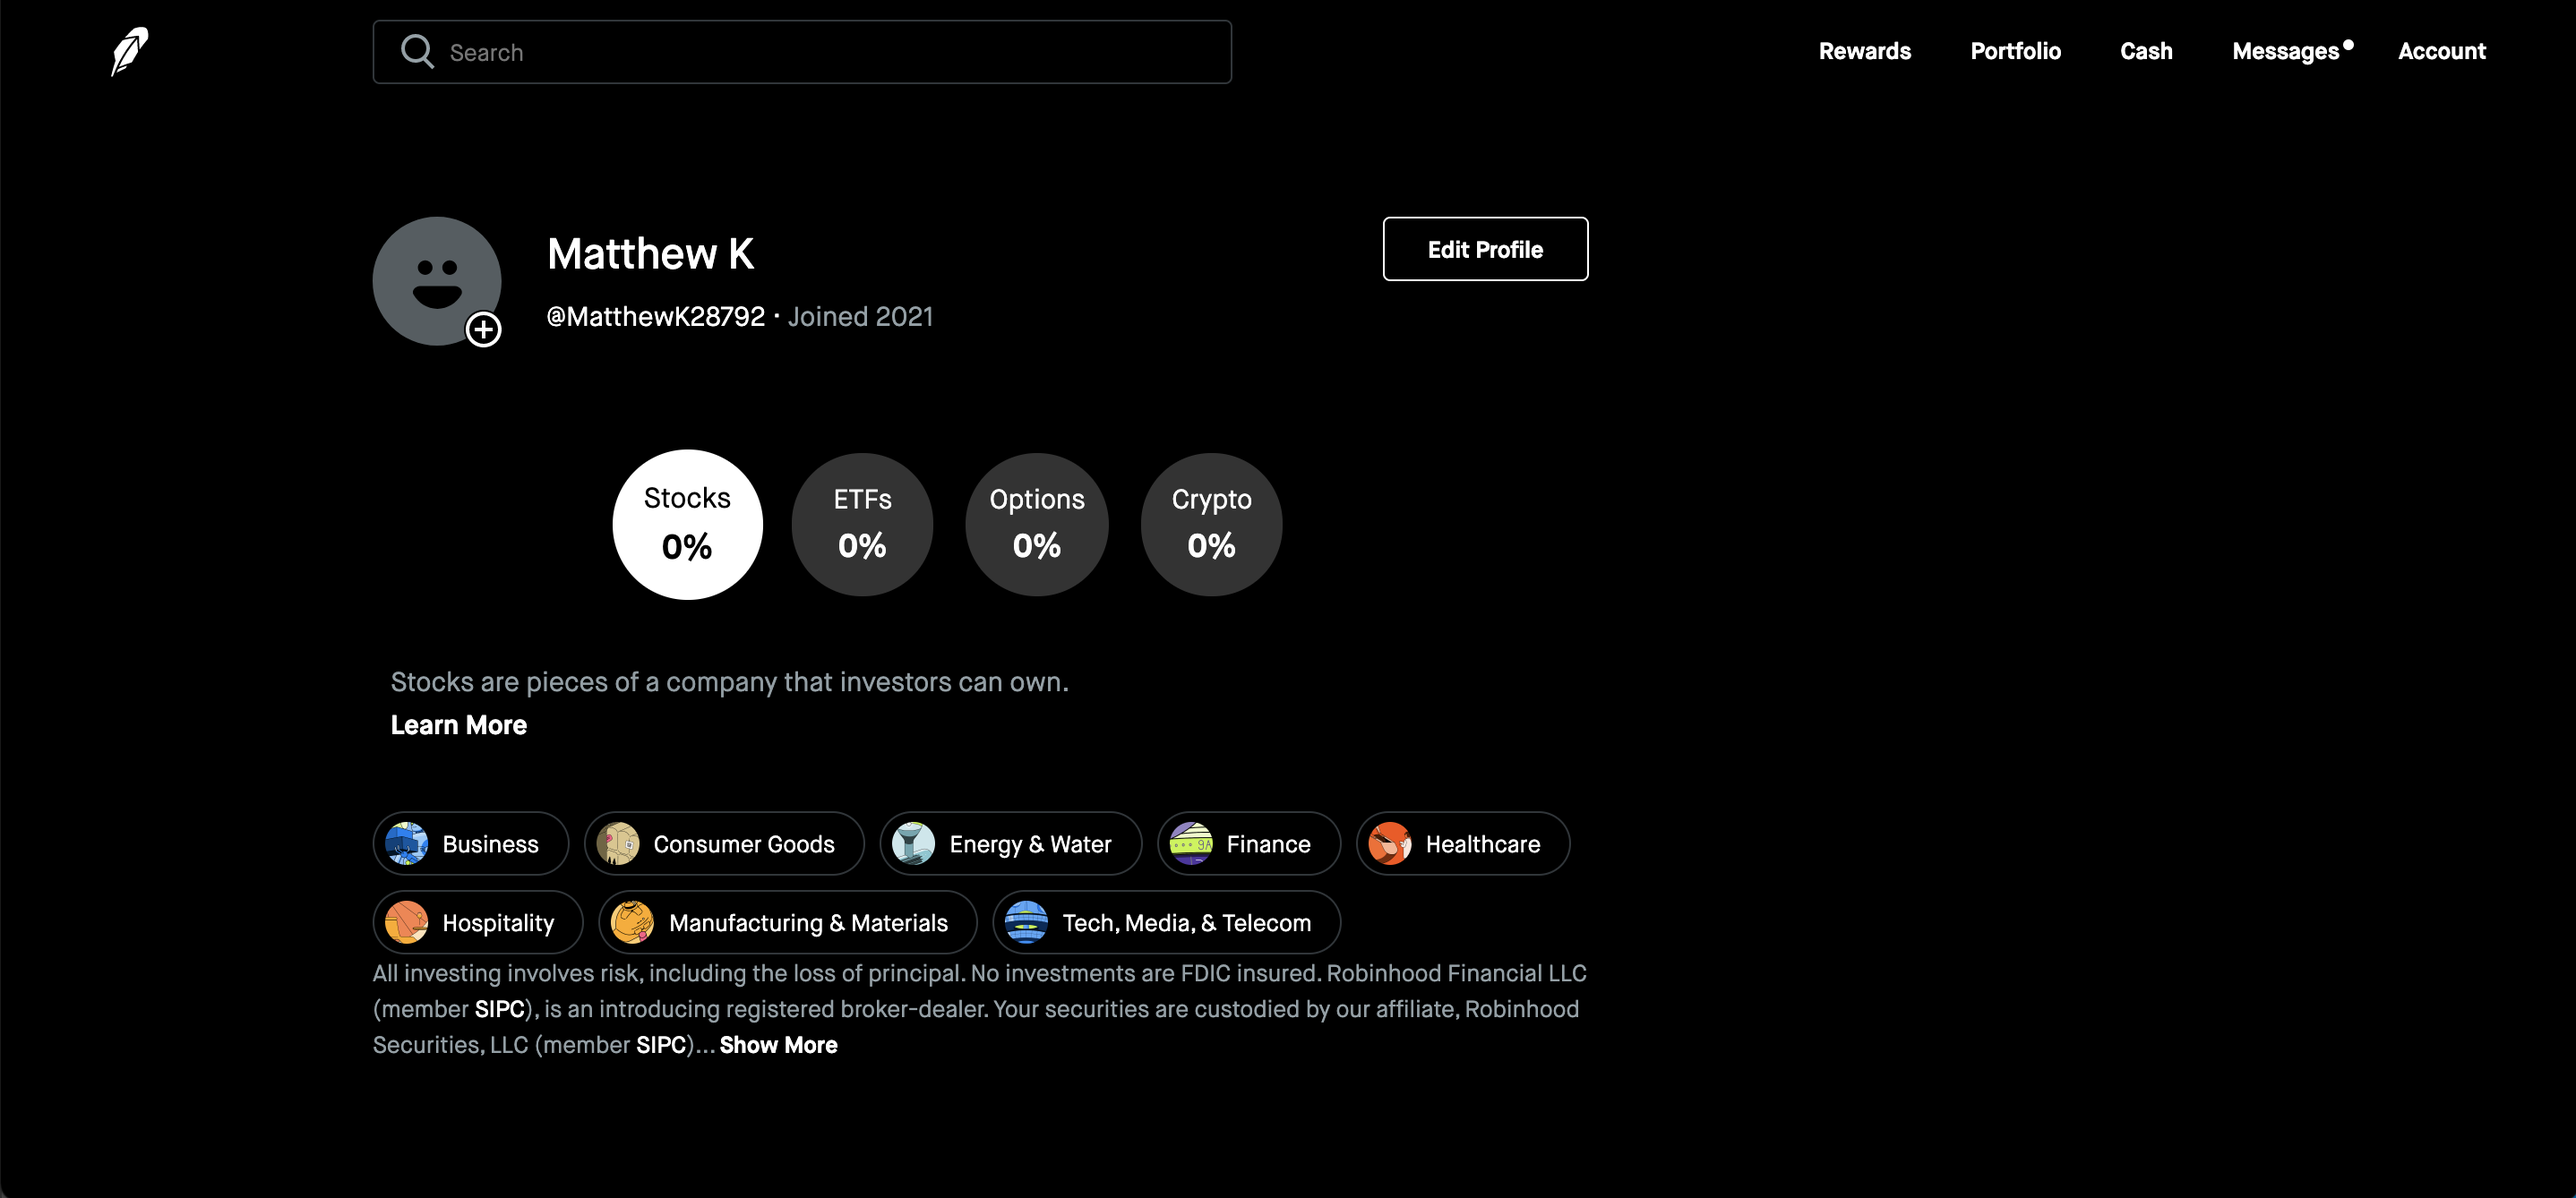
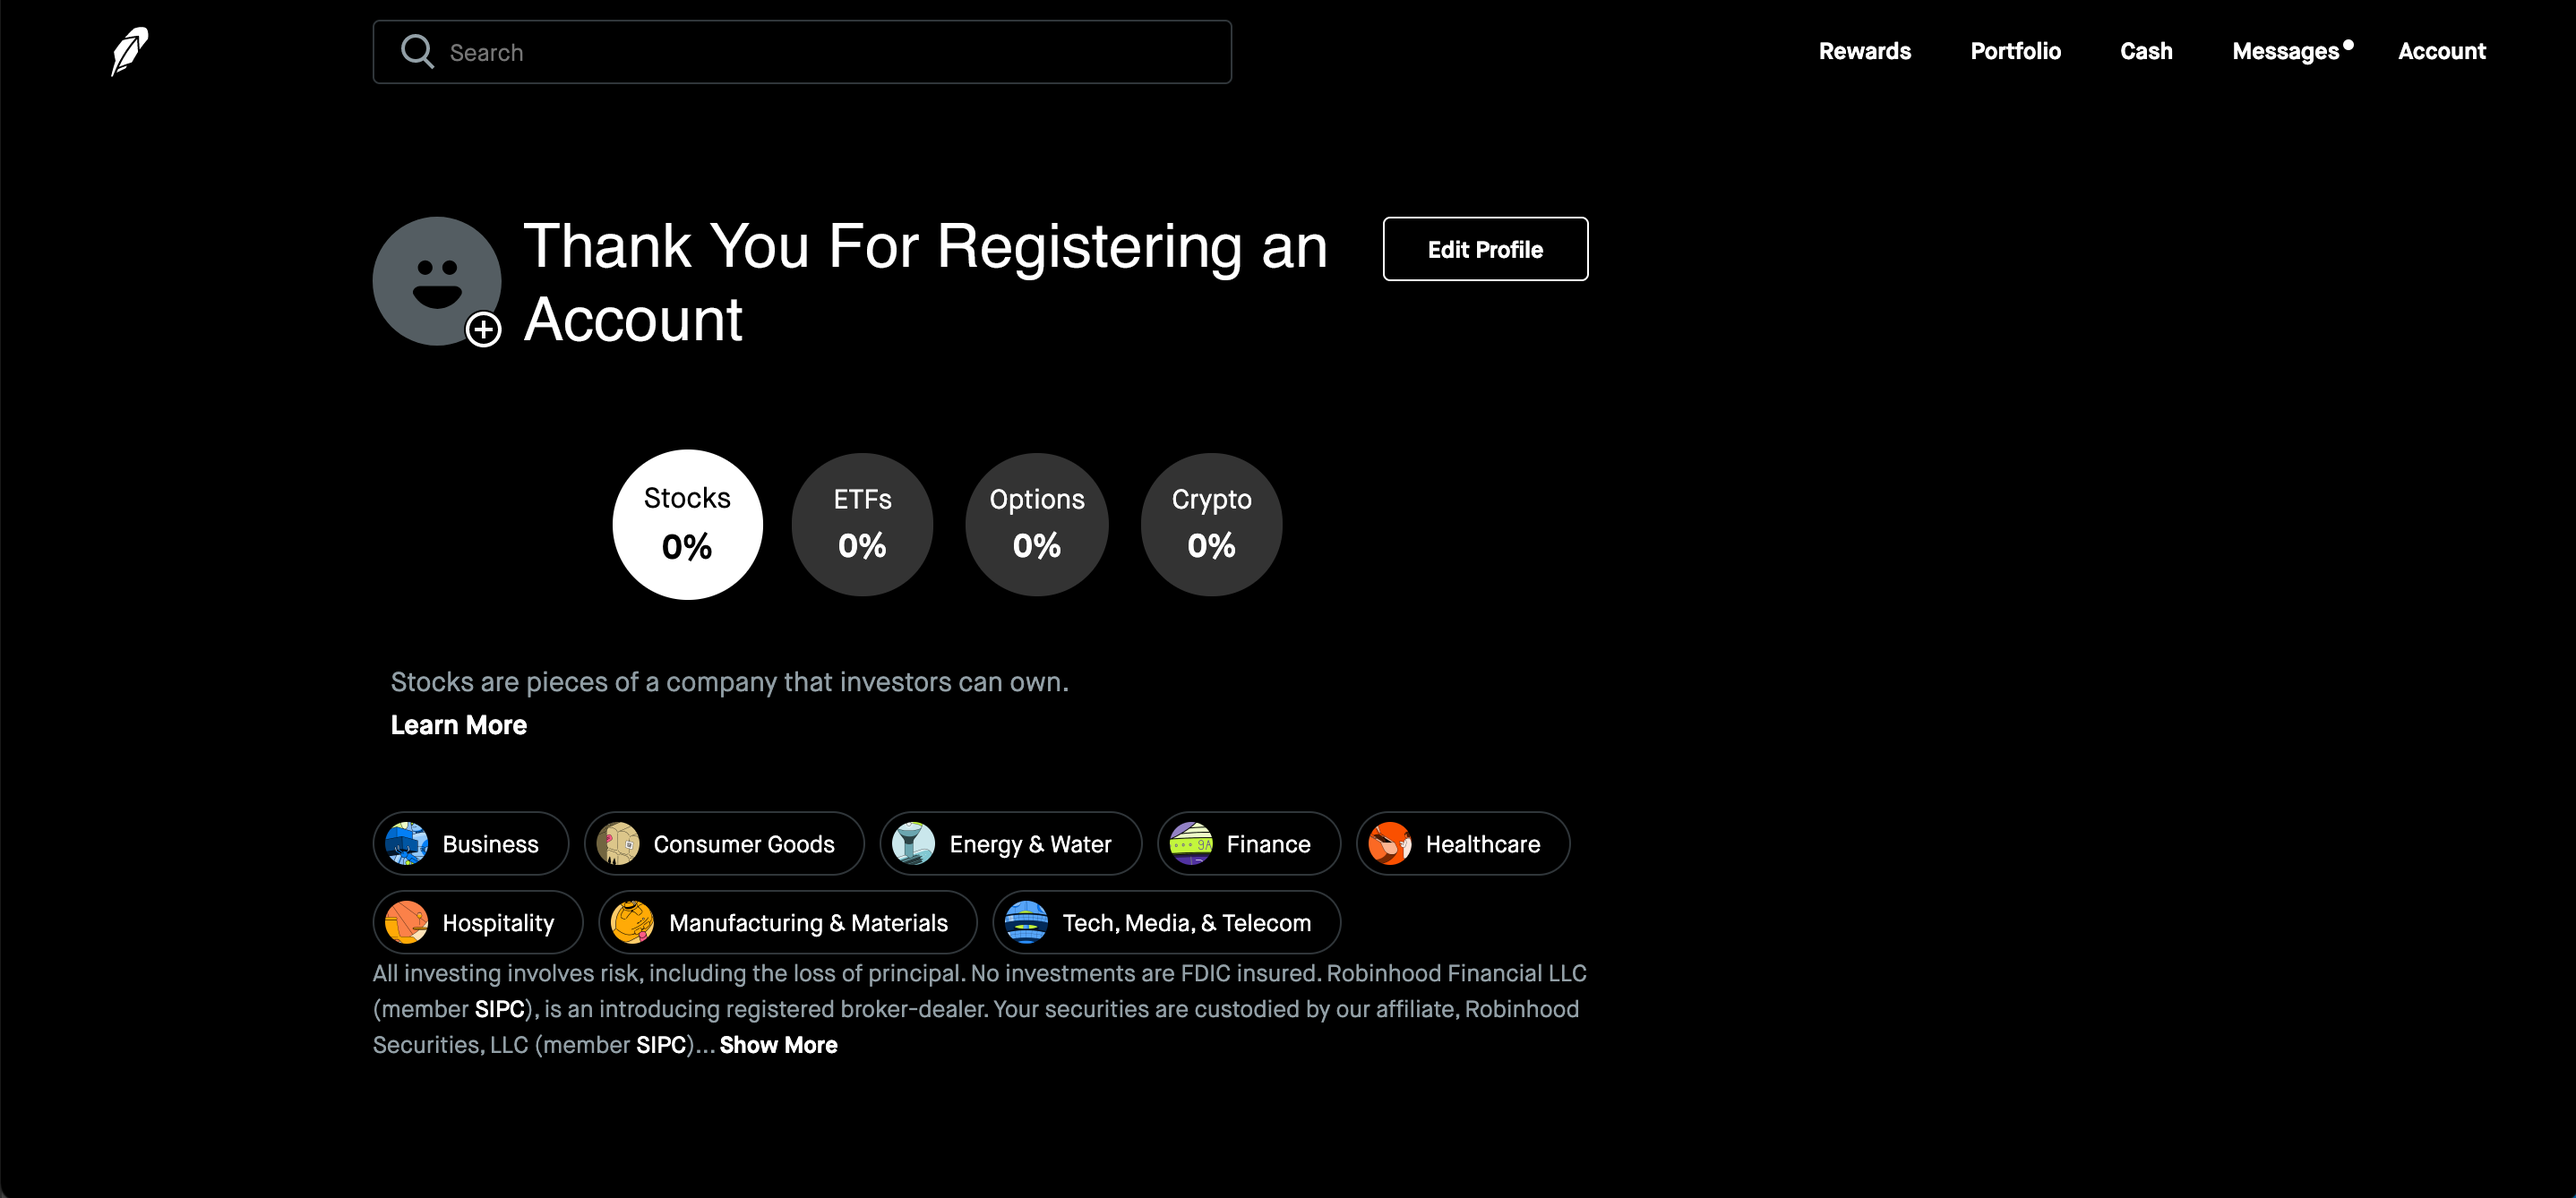
Use dev clients for local; fix robinhood simulation

Changed region(s): [[0.1857, 0.1839, 0.5261, 0.3064], [0.5261, 0.6741, 0.557, 0.7048], [0.2166, 0.7661, 0.2476, 0.7967]]

diff --git a/pages/robinhood/index.js b/pages/robinhood/index.js
@@ -6,17 +6,13 @@ import { useState, useEffect } from 'react';
 
 export default function Robinhood() {
   const basePath = router?.router?.basePath || publicRuntimeConfig.basePath;
-  const [member_id, setMemberId] = useState('');
-  const [userLoaded, setUserLoaded] = useState(false);
   const [homeClass, setHomeClass] = useState();
 
   useEffect(() => {
     (async () => {
       const userinfo_raw = await fetch(`${basePath}/api/oauth/userinfo?client_id=robinhood`);
       const userinfo = await userinfo_raw.json();
-      setUserLoaded(true);
-      setMemberId(userinfo.member_id);
-      if (userinfo.member_id) {
+      if (userinfo && userinfo?.data?.member_id) {
         setHomeClass(styles.logged)
       }
       else {
